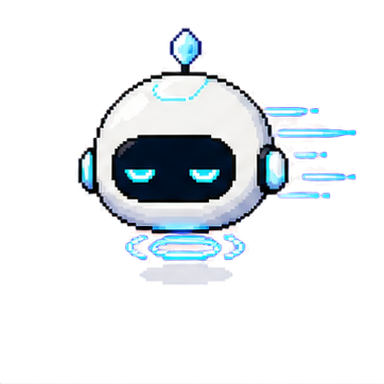
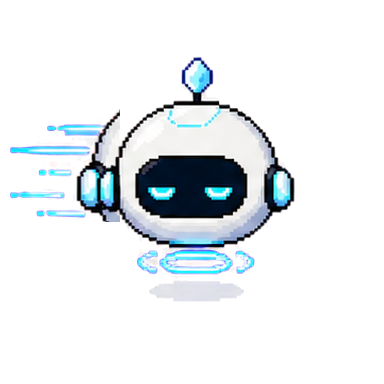
change28-会话patrol移动时的前端流畅度优化

Changed region(s): [[0.0312, 0.0625, 0.9375, 0.7812]]

diff --git a/desktop/patrol-avatar.js b/desktop/patrol-avatar.js
@@ -1,14 +1,18 @@
 /*
  * 本文件对外提供 FocusPatrolAvatar 会话小兵组件。输入为挂载节点、待命/真实 Patrol
  * 视图模型、任务级归一化位置与动作/保存回调，输出为可访问的状态化小兵、气泡和自由
- * 拖动交互；工作流为按 avatar_id 协调 DOM，使用 Pointer Events/键盘更新受限坐标，并
- * 仅在交互结束时把位置或主操作交还宿主。示例：FocusPatrolAvatar.mount(root, options)。
+ * 拖动交互；工作流为按 avatar_id 协调 DOM，使用 Pointer Events/键盘更新受限坐标，以
+ * 稳定方向采样独立更新动作资源，并仅在交互结束时把位置或主操作交还宿主。示例：
+ * FocusPatrolAvatar.mount(root, options)。
  */
 (function patrolAvatarModule(global) {
   "use strict";
 
   const ASSET_ROOT = "./assets/patrol-avatar";
   const DRAG_THRESHOLD = 5;
+  const MOTION_SAMPLE_DISTANCE = 12;
+  const ROTATE_ENTER_RATIO = 1.6;
+  const ROTATE_EXIT_RATIO = 2.2;
   const DEFAULT_SIZE = 116;
   const STATUS = Object.freeze({
     ready: { asset: "idle", label: "就绪", message: "我在这里，需要时可以继续安排任务。" },
@@ -67,13 +71,21 @@
     return Math.hypot(currentX - startX, currentY - startY) >= threshold;
   }
 
-  function movementState(deltaX, deltaY) {
+  function movementState(deltaX, deltaY, currentMotion = null) {
     const horizontal = Math.abs(deltaX);
     const vertical = Math.abs(deltaY);
     if (horizontal < 1 && vertical < 1) return null;
-    if (horizontal > 6 && vertical > 6 && Math.max(horizontal, vertical) / Math.min(horizontal, vertical) < 1.8) return "rotate";
+    const ratio = Math.min(horizontal, vertical) >= 1 ? Math.max(horizontal, vertical) / Math.min(horizontal, vertical) : Infinity;
+    if (ratio <= (currentMotion === "rotate" ? ROTATE_EXIT_RATIO : ROTATE_ENTER_RATIO)) return "rotate";
     if (horizontal >= vertical) return deltaX < 0 ? "move-left" : "move-right";
     return deltaY < 0 ? "rise" : "descend";
+  }
+
+  function stableMovementState(sampleX, sampleY, currentX, currentY, currentMotion, threshold = MOTION_SAMPLE_DISTANCE) {
+    const deltaX = currentX - sampleX;
+    const deltaY = currentY - sampleY;
+    if (Math.hypot(deltaX, deltaY) < threshold) return { motion: currentMotion, sampled: false };
+    return { motion: movementState(deltaX, deltaY, currentMotion) || currentMotion, sampled: true };
   }
 
   function avatarId(avatar) {
@@ -132,13 +144,20 @@
       return statusPresentation(record.status).asset;
     }
 
+    function applyVisualAsset(record) {
+      const asset = visualState(record);
+      if (record.visualAsset === asset) return false;
+      record.visualAsset = asset;
+      record.element.dataset.visual = asset;
+      record.image.src = `${ASSET_ROOT}/${asset}.png`;
+      return true;
+    }
+
     function refreshVisual(record) {
       const presentation = statusPresentation(record.status);
       const statusLabel = record.avatar.status_label || presentation.label;
-      const asset = visualState(record);
       record.element.dataset.status = record.status;
-      record.element.dataset.visual = asset;
-      record.image.src = `${ASSET_ROOT}/${asset}.png`;
+      applyVisualAsset(record);
       record.button.setAttribute("aria-label", `${avatarLabel(record.avatar)}，${statusLabel}。点击查看状态，方向键移动位置。`);
       record.statusNode.textContent = statusLabel;
       record.message.textContent = record.avatar.message || presentation.message;
@@ -239,7 +258,7 @@
       const record = {
         avatar, avatarId: id, index, element, button, image, fallback, bubble, heading, detail, statusNode, message,
         position: sanitizePosition(position, defaultPosition(index)),
-        status: "ready", motion: null, drag: null, suppressClick: false,
+        status: "ready", motion: null, visualAsset: null, drag: null, suppressClick: false,
         celebrating: false, celebrationTimer: null, left: 0, top: 0,
       };
 
@@ -287,11 +306,14 @@
         event.preventDefault();
         drag.started = true;
         record.element.classList.add("is-dragging");
-        record.motion = movementState(event.clientX - drag.lastX, event.clientY - drag.lastY);
+        applyPixelPosition(record, drag.startLeft + event.clientX - drag.startX, drag.startTop + event.clientY - drag.startY);
+        const sampled = stableMovementState(drag.lastX, drag.lastY, event.clientX, event.clientY, record.motion);
+        if (!sampled.sampled) return;
         drag.lastX = event.clientX;
         drag.lastY = event.clientY;
-        applyPixelPosition(record, drag.startLeft + event.clientX - drag.startX, drag.startTop + event.clientY - drag.startY);
-        refreshVisual(record);
+        if (record.motion === sampled.motion) return;
+        record.motion = sampled.motion;
+        applyVisualAsset(record);
       });
       button.addEventListener("pointerup", event => finishPointer(record, event, true));
       button.addEventListener("pointercancel", event => finishPointer(record, event, false));
@@ -406,6 +428,7 @@
     normalizedPosition,
     dragExceeded,
     movementState,
+    stableMovementState,
     avatarId,
     avatarStatus,
     avatarLabel,
